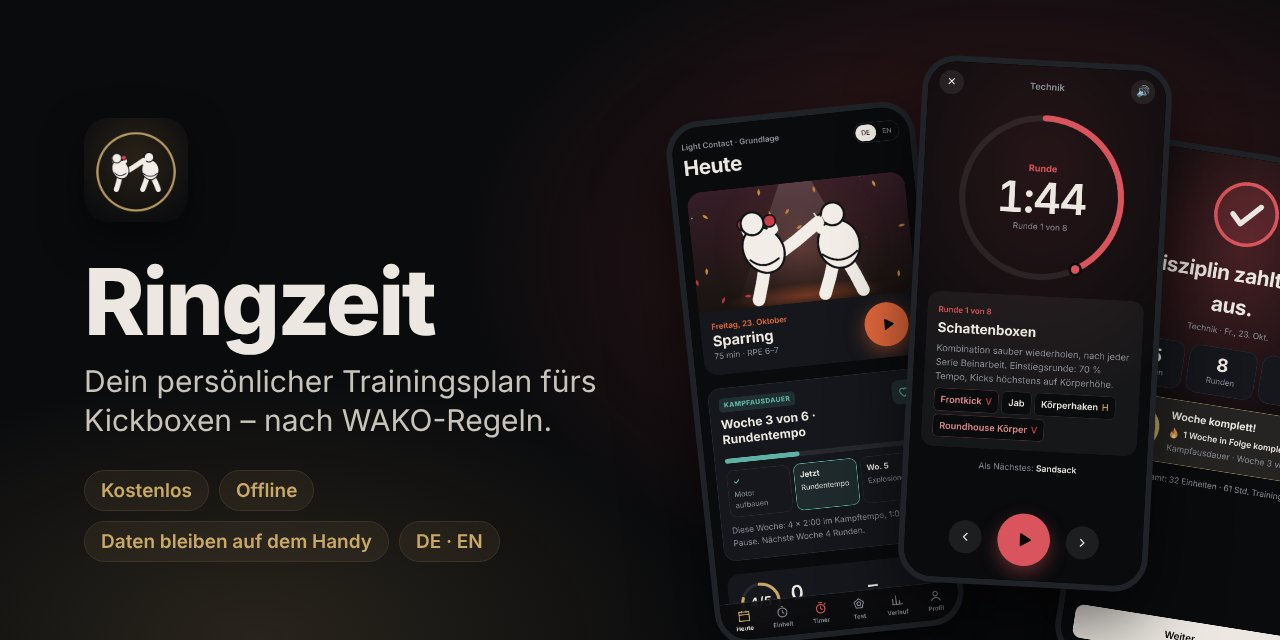
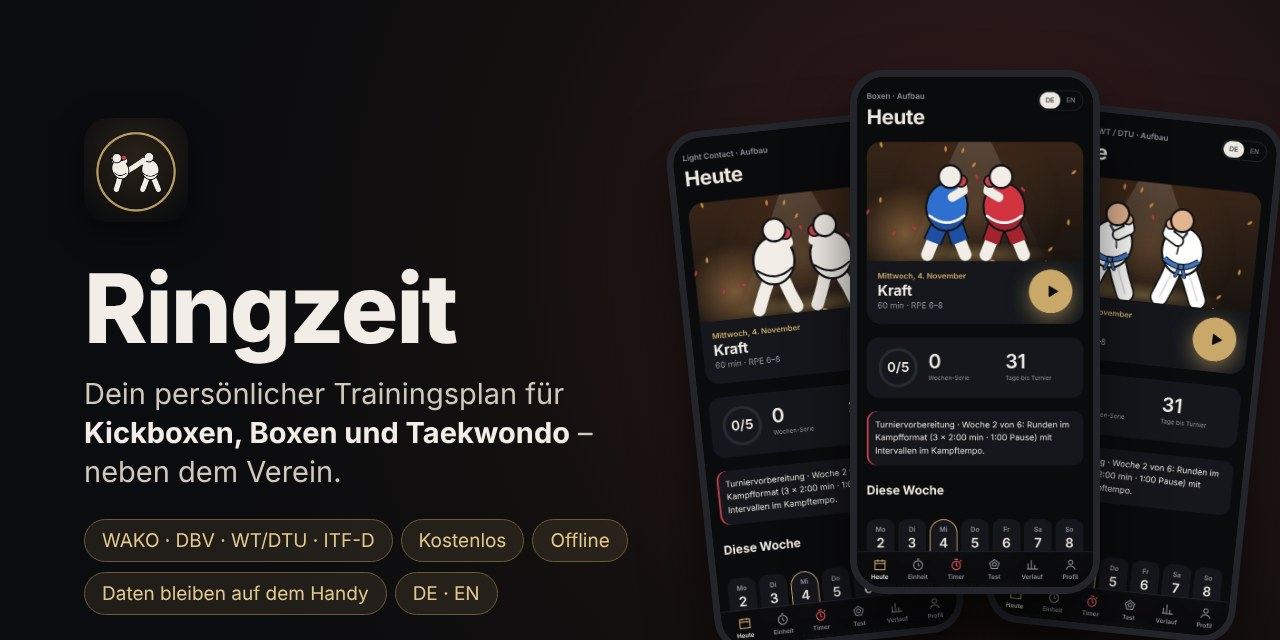
Add files via upload

diff --git a/docs/implementation-status.md b/docs/implementation-status.md
@@ -28,7 +28,7 @@
 | W8 | 6d – Stilbezogene Inhalte | Sonnet 5.5 | ABGENOMMEN (03.11.2026 22:36, Stand `df2ab31`, App-Version 03.11.2026 22:31, 213 Tests; inkl. Nachbesserungen 6d-2 Tipps und 6d-3 Rundentimer) |
 | W8 | 7a – Automatische Gesamtprüfung | Opus 5.5 | GESICHTET (04.11.2026, Stand `07ff90f`; Befunde B1–B5 plus Schwerpunkte B6–B8 für 7b freigegeben) |
 | W8 | 7b – Korrekturen B1–B8 | Opus 5.5 | ABGENOMMEN (04.11.2026 06:43, Stand `6799ac7`, App-Version 04.11.2026 06:24, 223 Tests) |
-| W8 | 7c – Prüflisten, Ablöse-Anleitung, Endlieferung | Opus 5.5 | WARTET AUF GESAMTABNAHME (Doku; 7c-2: Korrektur ⓘ-Infoblatt; 7c-3: Sommer mit Palme und Liegestuhl; 225 Tests) |
+| W8 | 7c – Prüflisten, Ablöse-Anleitung, Endlieferung | Opus 5.5 | WARTET AUF GESAMTABNAHME (Doku; 7c-2: Korrektur ⓘ-Infoblatt; 7c-3: Sommer mit Palme und Liegestuhl; 7c-4: Gürtelreiter je Sportart; README neu; 226 Tests) |
 
 ## 4b – Gemeinsame Tipps und Boxeinstieg (Umsetzung)
 
@@ -202,6 +202,8 @@ Unterteilung (Betreiber, 03.11.2026 22:40, Empfehlungen übernommen): 7a automat
 - **7c** (Auftrag 04.11.2026 06:44): `docs/geraete-checkliste.md` (iPhone, installierte App; Android nicht belegt), `docs/trainer-pruefliste.md` (Regelwerke A1–A5, Trainingsinhalte B1–B8, Ratgeber C1–C5), `docs/abloesung.md` (Weg 1 empfohlen: Code übernehmen, Daten bleiben; Datenübernahme-Test vor der Ablösung Pflicht; Cache-Präfix; Rückweg). Endlieferung: Delta-ZIP (nur 7c) und Komplett-ZIP des Endstands. Keine Veröffentlichung, keine Ablösung.
 - **7c-2** (Fehlerbericht Betreiber 04.11.2026 06:55): Das ⓘ an den Übungen öffnete seit 3-D nichts mehr, weil die Text-ID beim Klick in eine Zahl umgewandelt wurde (`38-events.js`). Behoben, mit Test über alle Sportarten (224 Tests). Jahreszeit- und Feiertagsbilder für alle drei Outfits geprüft (Kickboxen, Boxen, Dobok): Mützen, Teilchen und Motive erscheinen bei allen; die Sommer-Badehose gibt es nur ohne Sportkleidung (so gewollt); mit ausgeschaltetem Design gibt es keine Jahreszeit-Elemente.
 - **7c-3** (Wunsch Betreiber 04.11.2026 07:26): Sommer ohne Badehose; stattdessen eine Palme im Hintergrund links (höher als die Figuren) und ein gestreifter Liegestuhl rechts – bei allen Outfits, nur auf der Startseite (die Lade- und Inbetriebnahme-Bilder haben keinen Hintergrund). Test „7c-3“ (225 Tests).
+- **7c-4** (beim Erzeugen der README-Bilder gefunden, 04.11.2026): Test → „Gürtelprüfung“ zeigte bei Hauptsport Taekwondo und Boxen das Kickbox-Programm (BFVKB-Gurte). Jetzt zeigt der Reiter bei Taekwondo den Taekwondo-Gürtelbereich des Stils; Boxen hat keinen Gürtelreiter (nur Fitnesstest), die Tour sagt dort „Fitnesstest“. Test „7c-4“ (226 Tests).
+- **README neu** (Wunsch Betreiber 04.11.2026 07:35): Banner mit drei Sportarten, Verbands-Badges, Tabelle „Drei Sportarten auf einen Blick“, neue Screenshots aus der App (Taekwondo, Boxen, ITF, Gürtelbereich, Ratgeber, Rundentimer), Funktionen je Sportart gekennzeichnet, Gesamtprüfung bei den Prüfbefehlen, Übersicht der Dokumentation. Neue Bilder: `docs/banner.jpg` (ersetzt), `docs/{kb,box,tkd}-heute.jpg`, `docs/{tkd,itf,box}-einheit.jpg`, `docs/tkd-guertel.jpg`, `docs/tkd-ratgeber.jpg`, `docs/tkd-timer.jpg`.
 
 ## Nächster Vorschlag (ohne Freigabe)
 
